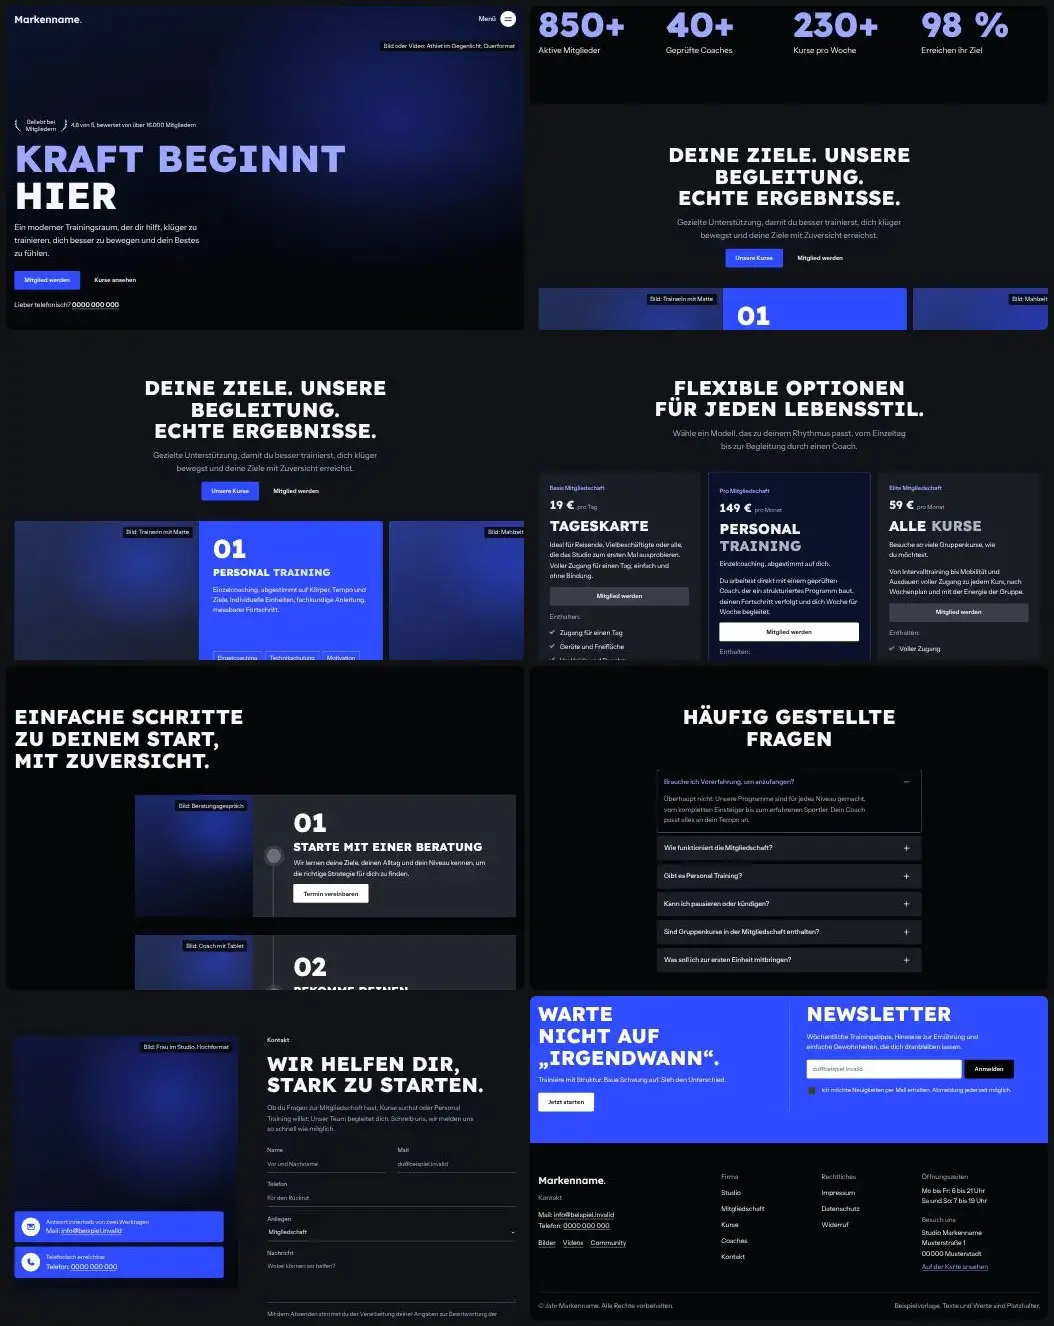
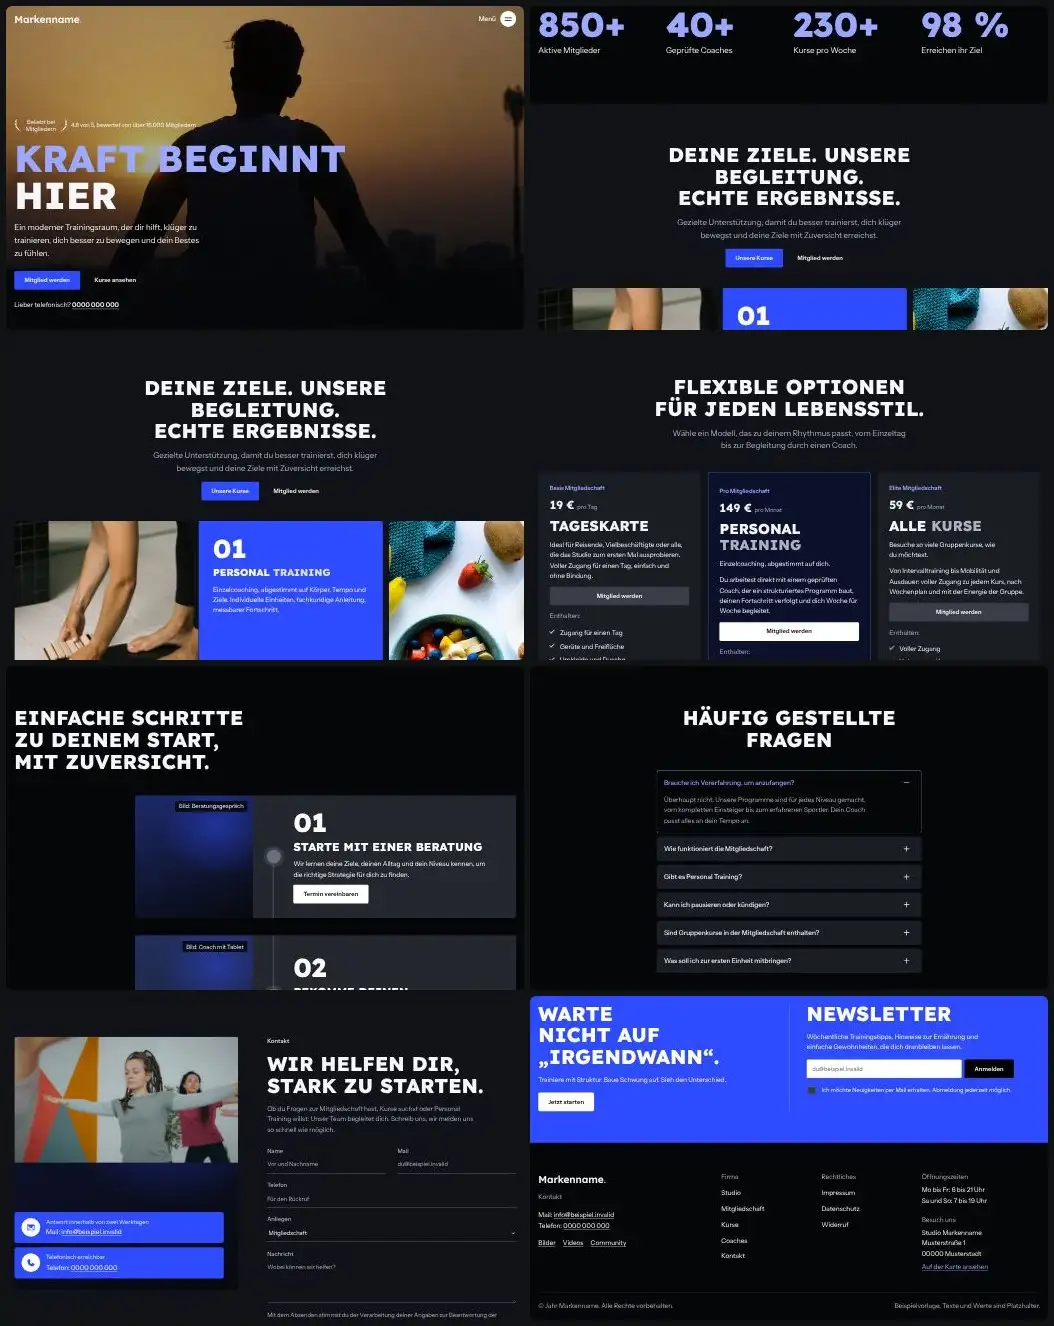
Bibliothek t59: Beispielfotos (Unsplash) eingebaut, Vorschaubilder neu erzeugt
Claude-Session: https://claude.ai/code/session_01DoGuL1bwF3ewggMgZ4Cpvd

diff --git a/skills/webdesign-conversion/assets/vorlagen/bibliothek/t59/index.html b/skills/webdesign-conversion/assets/vorlagen/bibliothek/t59/index.html
@@ -54,7 +54,7 @@
 <main id="inhalt">
   <!-- 1. Held: Vollbild, Text unten links -->
   <section class="held" id="top" aria-labelledby="h-held">
-    <div class="bild held__bild bild--a" data-platzhalter="Bild oder Video: Athlet im Gegenlicht, Querformat" role="img" aria-label="Platzhalter für ein Foto oder Video eines Athleten im Gegenlicht" data-abdunkeln></div>
+    <div class="bild held__bild bild--a" data-abdunkeln><img src="bilder/silhouette-sonnenuntergang.webp" width="1600" height="1067" alt="Silhouette eines Mannes vor orangem Sonnenuntergang" loading="lazy" decoding="async"></div>
     <div class="held__schleier" aria-hidden="true"></div>
     <div class="wrap held__innen">
       <p class="auszeichnung" data-zeig data-beispiel><svg class="auszeichnung__zweig" width="22" height="38" aria-hidden="true" focusable="false"><use href="#i-lorbeer"/></svg><span class="auszeichnung__text">Beliebt bei<br>Mitgliedern</span><svg class="auszeichnung__zweig auszeichnung__zweig--r" width="22" height="38" aria-hidden="true" focusable="false"><use href="#i-lorbeer"/></svg><span>4,8 von 5, bewertet von über 16.000 Mitgliedern</span></p>
@@ -71,7 +71,7 @@
   <!-- 2. Studio: Bild links, Text rechts -->
   <section class="sektion studio" id="studio" aria-labelledby="h-studio">
     <div class="wrap studio__raster">
-      <div class="studio__bild bild bild--b" data-platzhalter="Bild: Mann beim Plattenwechsel an der Langhantel" data-zeig="links" role="img" aria-label="Platzhalter für ein Foto eines Mannes beim Plattenwechsel an der Langhantel"></div>
+      <div class="studio__bild bild bild--b" data-zeig="links"><img src="bilder/langhantelscheibe-boden.webp" width="1000" height="667" alt="Langhantel mit Gewichtsscheibe auf dem Hallenboden" loading="lazy" decoding="async"></div>
       <div class="studio__text">
         <p class="kicker" data-zeig>Markenname. Gemacht, um dich zu bewegen.</p>
         <h2 id="h-studio" data-licht>Besser bewegen. Stärker werden.</h2>
@@ -118,19 +118,19 @@
     <div class="kurse__buehne" data-spur-gruppe>
       <ul class="kurse__spur" data-spur tabindex="0" role="region" aria-label="Kurse, seitlich wischen" data-beispiel>
         <li class="kurs"><article class="kurs__karte">
-          <div class="kurs__bild bild bild--c" data-platzhalter="Bild: Trainerin mit Matte" role="img" aria-label="Platzhalter für ein Foto einer Trainerin mit Matte"></div>
+          <div class="kurs__bild bild bild--c"><img src="bilder/haende-auf-schwarzer-matte.webp" width="800" height="1200" alt="Hände und Füße auf einer schwarzen Matte" loading="lazy" decoding="async"></div>
           <div class="kurs__panel"><p class="kurs__nr zahl" aria-hidden="true">01</p><h3>Personal <span>Training</span></h3><p>Einzelcoaching, abgestimmt auf Körper, Tempo und Ziele. Individuelle Einheiten, fachkundige Anleitung, messbarer Fortschritt.</p><ul class="marken"><li>Einzelcoaching</li><li>Technikschulung</li><li>Motivation</li><li>Fortschritt messen</li><li>Fachliche Begleitung</li></ul></div>
         </article></li>
         <li class="kurs"><article class="kurs__karte">
-          <div class="kurs__bild bild bild--d" data-platzhalter="Bild: Mahlzeit und Notizbuch" role="img" aria-label="Platzhalter für ein Foto von Gemüse und einem Notizbuch"></div>
+          <div class="kurs__bild bild bild--d"><img src="bilder/fruehstueck-draufsicht.webp" width="800" height="530" alt="Frühstück mit Beeren, Croissant und Kaffee in der Draufsicht" loading="lazy" decoding="async"></div>
           <div class="kurs__panel"><p class="kurs__nr zahl" aria-hidden="true">02</p><h3>Ernährungs<span>coaching</span></h3><p>Einfache, alltagstaugliche Hinweise zum Essen, ohne Extreme. Du lernst, was zu deinem Training und deinem Alltag passt.</p><ul class="marken"><li>Essensplan</li><li>Einkaufshilfe</li><li>Gewohnheiten</li><li>Beratung</li></ul></div>
         </article></li>
         <li class="kurs"><article class="kurs__karte">
-          <div class="kurs__bild bild bild--a" data-platzhalter="Bild: Gruppenkurs im Studio" role="img" aria-label="Platzhalter für ein Foto eines Gruppenkurses"></div>
+          <div class="kurs__bild bild bild--a"><img src="bilder/gruppenkurs-bunte-wand.webp" width="800" height="450" alt="Frau mit Dreadlocks im Gruppenkurs vor bunter Wand" loading="lazy" decoding="async"></div>
           <div class="kurs__panel"><p class="kurs__nr zahl" aria-hidden="true">03</p><h3>Gruppen<span>kurse</span></h3><p>Training mit Energie der Gruppe: von hochintensiv bis ruhig, in jedem Level und mit einem festen Wochenplan.</p><ul class="marken"><li>Intervalltraining</li><li>Kraft</li><li>Mobilität</li><li>Ausdauer</li></ul></div>
         </article></li>
         <li class="kurs"><article class="kurs__karte">
-          <div class="kurs__bild bild bild--b" data-platzhalter="Bild: Dehnung am Boden" role="img" aria-label="Platzhalter für ein Foto einer Dehnübung am Boden"></div>
+          <div class="kurs__bild bild bild--b"><img src="bilder/dehnung-auf-matte.webp" width="800" height="1199" alt="Frau dehnt sich auf einer Matte, Rückenansicht" loading="lazy" decoding="async"></div>
           <div class="kurs__panel"><p class="kurs__nr zahl" aria-hidden="true">04</p><h3>Mobilität und <span>Erholung</span></h3><p>Sanfte Einheiten für Beweglichkeit, Regeneration und weniger Verletzungen, damit du länger und besser trainierst.</p><ul class="marken"><li>Dehnen</li><li>Faszien</li><li>Atmung</li><li>Regeneration</li></ul></div>
         </article></li>
         <li class="kurs"><article class="kurs__karte">
@@ -285,7 +285,7 @@
   <section class="sektion kontakt" id="kontakt" aria-labelledby="h-kontakt">
     <div class="wrap kontakt__raster">
       <div class="kontakt__bildspalte">
-        <div class="kontakt__bild bild bild--a" data-platzhalter="Bild: Frau im Studio, Hochformat" role="img" aria-label="Platzhalter für ein Foto einer Frau im Studio" data-zeig="links"></div>
+        <div class="kontakt__bild bild bild--a" data-zeig="links"><img src="bilder/gruppenkurs-arme-seitlich.webp" width="1000" height="563" alt="Zwei Frauen im Kurs, eine mit seitlich ausgestreckten Armen" loading="lazy" decoding="async"></div>
         <address class="baender" data-beispiel>
           <p class="band"><span class="band__kreis" aria-hidden="true"><svg width="26" height="26" focusable="false"><use href="#i-mailv"/></svg></span><span><small>Antwort innerhalb von zwei Werktagen</small>Mail: <a href="mailto:info@beispiel.invalid">info@beispiel.invalid</a></span></p>
           <p class="band"><span class="band__kreis" aria-hidden="true"><svg width="26" height="26" focusable="false"><use href="#i-telefonv"/></svg></span><span><small>Telefonisch erreichbar</small>Telefon: <a href="tel:+490000000000">0000 000 000</a></span></p>

diff --git a/skills/webdesign-conversion/assets/vorlagen/bibliothek/t59/BILDER.md b/skills/webdesign-conversion/assets/vorlagen/bibliothek/t59/BILDER.md
@@ -1,0 +1,24 @@
+# Bilder t59
+
+Alle Fotos von Unsplash, abgerufen am 25.11.2026. Titel und Lizenz stehen so auf der Seite des Fotos (Titel von Unsplash automatisch vergeben), als Fotograf ist das Unsplash Profil angegeben, weil die Seite den Namen nur als Profillink zeigte. Lizenz ist jeweils die Unsplash Lizenz.
+
+| Datei | Platz | Foto Titel | Fotograf (Profil) | Seite | Lizenz | Abruf |
+|---|---|---|---|---|---|---|
+| silhouette-sonnenuntergang.webp.webp | Hero, Athlet im Gegenlicht | Der Mann beobachtet den Sonnenuntergang | abhisathvik_reddy22 | https://unsplash.com/photos/51eUPZYGA5g | Unsplash Lizenz | 25.11.2026 |
+| langhantelscheibe-boden.webp.webp | Studio, Plattenwechsel an der Langhantel | Eine Nahaufnahme einer Langhantel auf einem Trainingsboden | eduardocanophotoco | https://unsplash.com/photos/gP9rAnGJBRo | Unsplash Lizenz | 25.11.2026 |
+| haende-auf-schwarzer-matte.webp.webp | Kurs, Trainerin mit Matte | ein Paar Füße mit Sandalen | mathildelangevin | https://unsplash.com/photos/aBJ3A-2LJyU | Unsplash Lizenz | 25.11.2026 |
+| fruehstueck-draufsicht.webp.webp | Kurs, Mahlzeit und Notizbuch | Draufsicht auf Erdbeer- und Beerenparfait in einer Schüssel | ivantimov | https://unsplash.com/photos/2L8VzgYikXE | Unsplash Lizenz | 25.11.2026 |
+| gruppenkurs-bunte-wand.webp.webp | Kurs, Gruppenkurs im Studio | Eine Frau mit Dreadlocks in einem grauen Hemd | silverkblack | https://unsplash.com/photos/a-Hu17Qr-Tk | Unsplash Lizenz | 25.11.2026 |
+| dehnung-auf-matte.webp.webp | Kurs, Dehnung am Boden | Frau legt sich hin | anniespratt | https://unsplash.com/photos/Q6vClAWRqFY | Unsplash Lizenz | 25.11.2026 |
+| gruppenkurs-arme-seitlich.webp.webp | Kontakt, Frau im Studio | Zwei Frauen in einem Atelier mit geometrischen Mustern | silverkblack | https://unsplash.com/photos/lFTI7oj9hgs | Unsplash Lizenz | 25.11.2026 |
+
+## Hinweise
+
+* Das Foto bei Kurs Trainerin mit Matte zeigt nur Hände und Füße auf einer Matte.
+* Die Frühstücksaufnahme enthält ein aufgeschlagenes Buch mit unlesbar kleiner Schrift.
+* Gruppenkurs Bilder zeigen ein Studio mit bunter Wand, keine Kunden der Vorlage.
+
+## Offen
+
+* Coach am Bildschirm, drei Coach Porträts
+* Beratungsgespräch, Coach mit Tablet, Kontrolle der Messwerte
